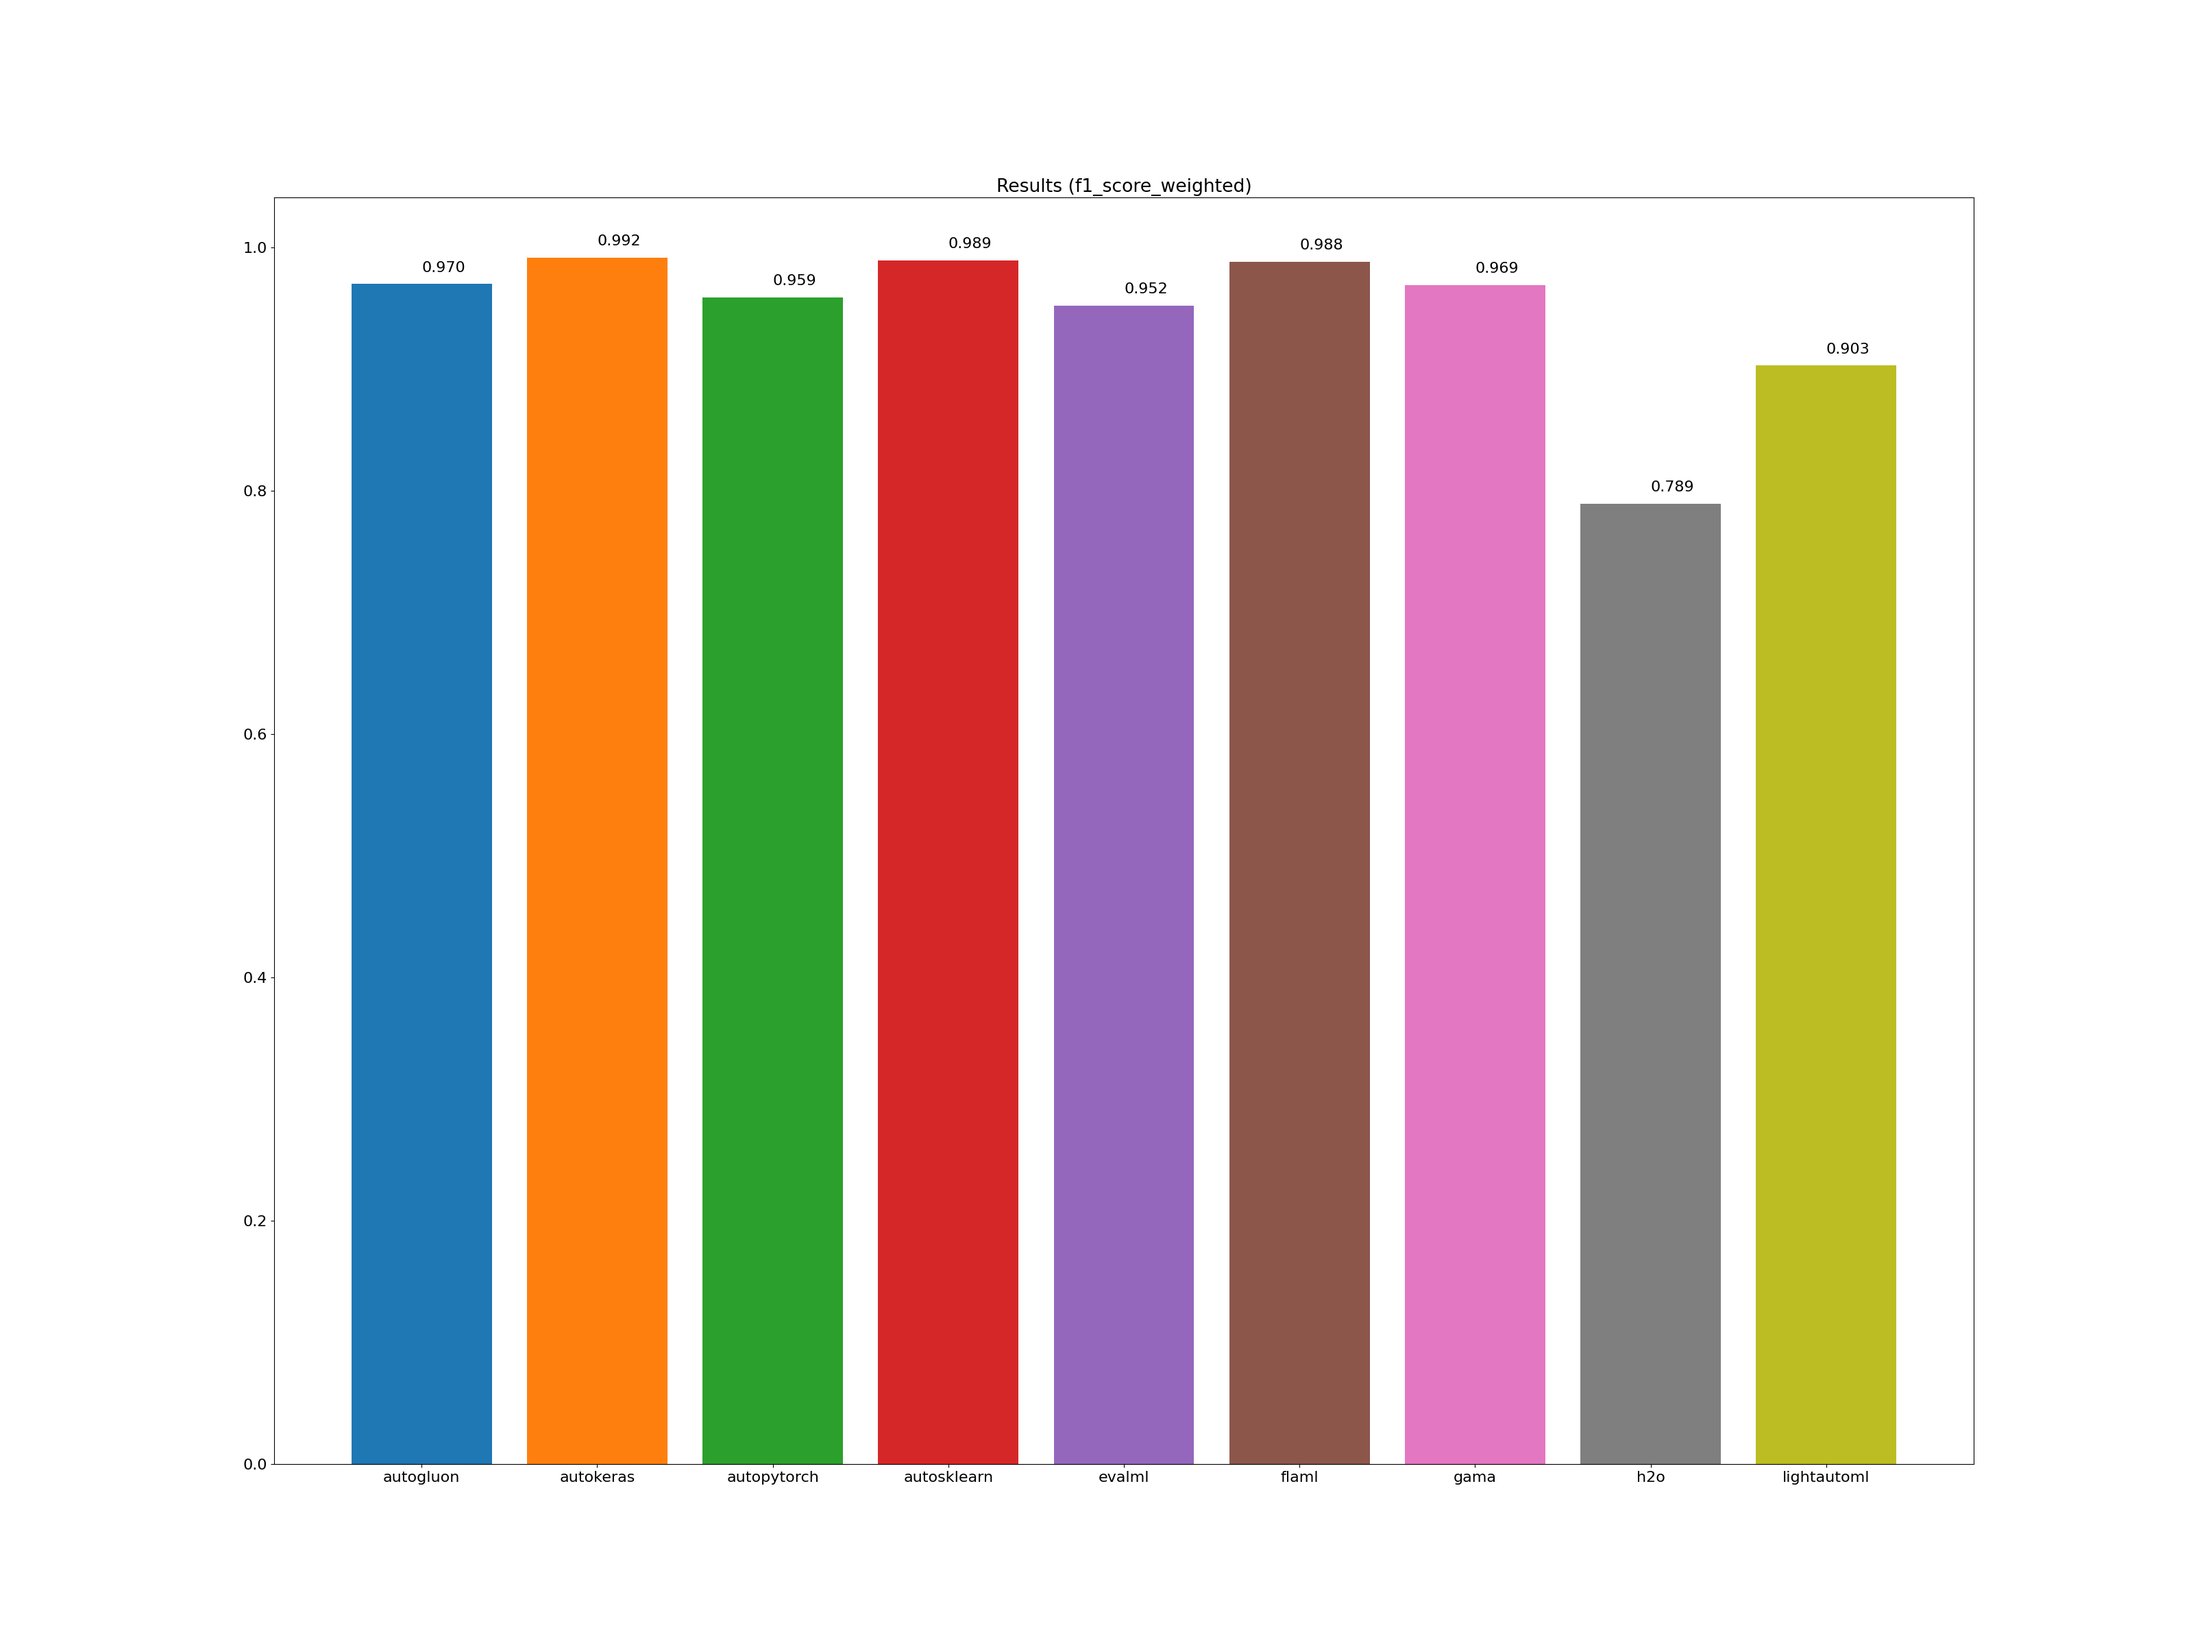
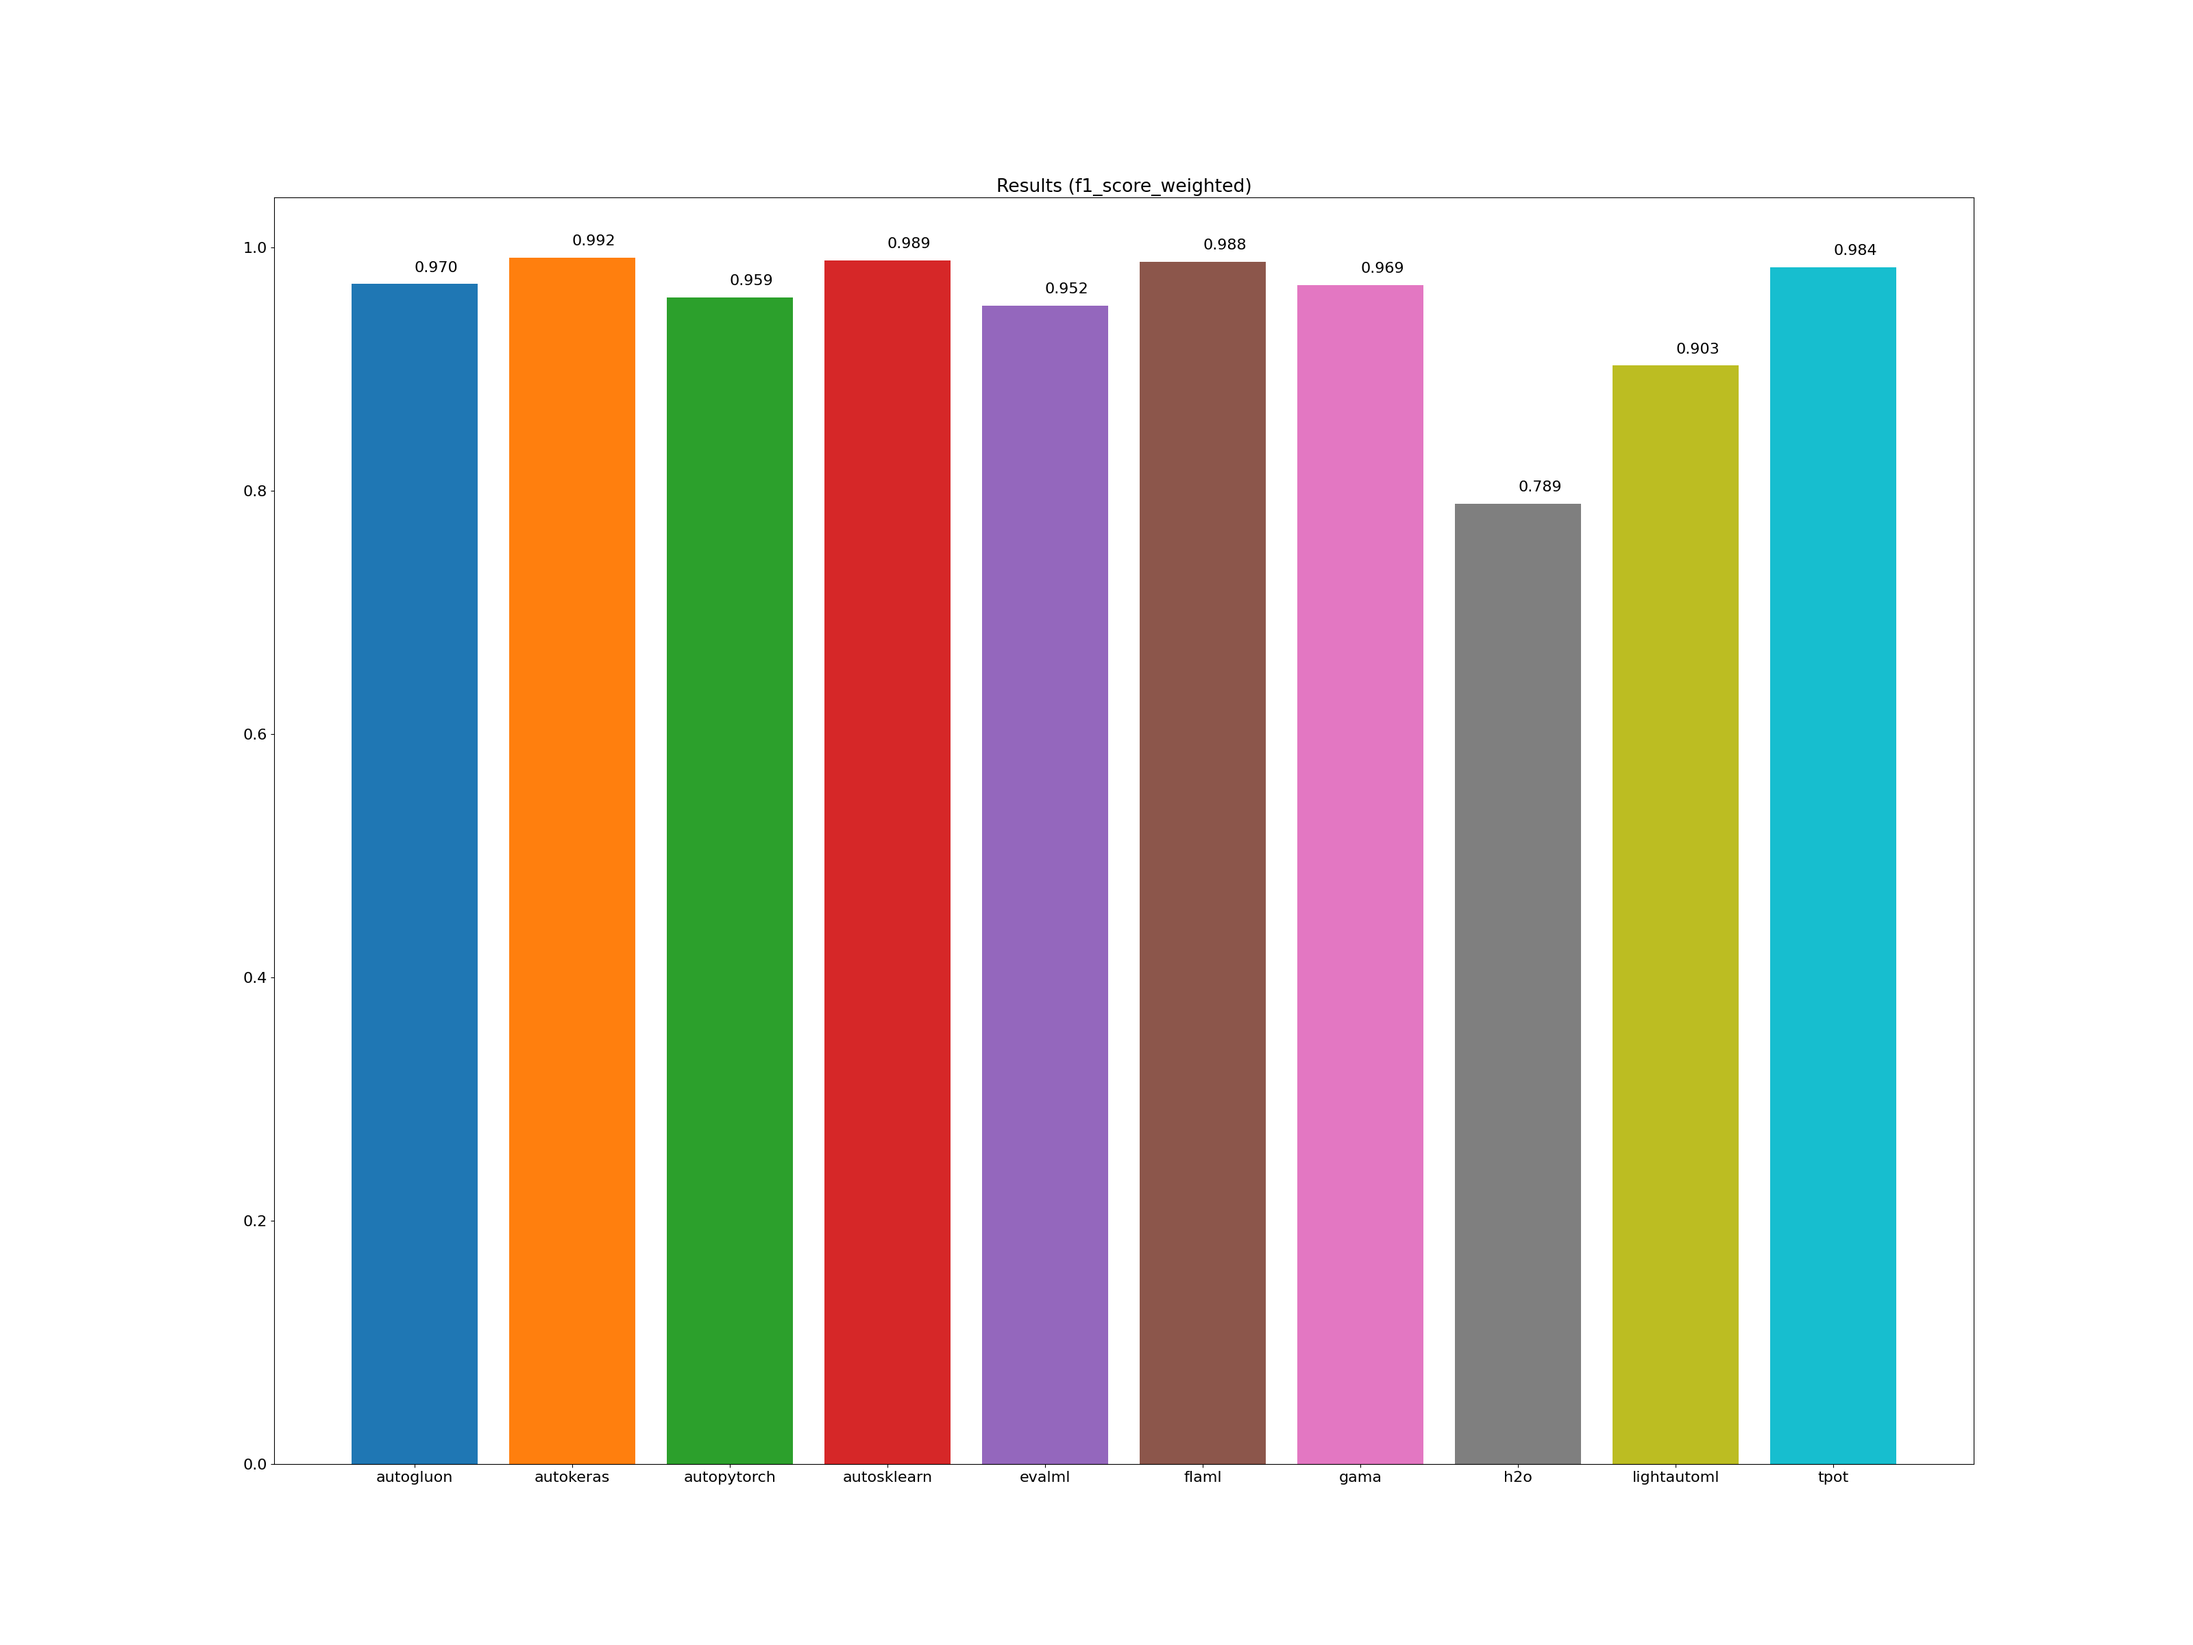
Fix TPOT for 40975

diff --git a/results/multiclass/40975/automl.md b/results/multiclass/40975/automl.md
@@ -1,11 +1,12 @@
-| framework   |   accuracy_score |   average_precision_score |   balanced_accuracy_score |   cohen_kappa_score |   f1_score_macro |   f1_score_micro |   f1_score_weighted |   matthews_corrcoef |   precision_score |   recall_score |   roc_auc_score | training_time   | test_time   |
-|:------------|-----------------:|--------------------------:|--------------------------:|--------------------:|-----------------:|-----------------:|--------------------:|--------------------:|------------------:|---------------:|----------------:|:----------------|:------------|
-| autogluon   |            0.968 |                        -1 |                     0.935 |               0.934 |            0.897 |            0.968 |               0.97  |               0.934 |                -1 |             -1 |              -1 | 00:00:13        | 00:00:00    |
-| autokeras   |            0.991 |                        -1 |                     0.971 |               0.982 |            0.957 |            0.991 |               0.992 |               0.982 |                -1 |             -1 |              -1 | 00:01:16        | 00:00:00    |
-| autopytorch |            0.957 |                        -1 |                     0.931 |               0.909 |            0.881 |            0.957 |               0.959 |               0.911 |                -1 |             -1 |              -1 | 00:10:12        | 00:00:09    |
-| autosklearn |            0.988 |                        -1 |                     0.988 |               0.976 |            0.955 |            0.988 |               0.989 |               0.976 |                -1 |             -1 |              -1 | 00:10:13        | 00:00:01    |
-| evalml      |            0.951 |                        -1 |                     0.911 |               0.897 |            0.863 |            0.951 |               0.952 |               0.899 |                -1 |             -1 |              -1 | 00:10:01        | 00:00:00    |
-| flaml       |            0.988 |                        -1 |                     0.976 |               0.976 |            0.974 |            0.988 |               0.988 |               0.976 |                -1 |             -1 |              -1 | 00:10:00        | 00:00:00    |
-| gama        |            0.968 |                        -1 |                     0.916 |               0.934 |            0.897 |            0.968 |               0.969 |               0.934 |                -1 |             -1 |              -1 | 00:08:59        | 00:00:00    |
-| h2o         |            0.821 |                        -1 |                     0.419 |               0.599 |            0.397 |            0.821 |               0.789 |               0.605 |                -1 |             -1 |              -1 | 00:10:05        | 00:00:00    |
-| lightautoml |            0.896 |                        -1 |                     0.519 |               0.782 |            0.526 |            0.896 |               0.903 |               0.782 |                -1 |             -1 |              -1 | 00:01:06        | 00:00:00    |
+| framework   |   accuracy_score |   average_precision_score |   balanced_accuracy_score |   cohen_kappa_score |   f1_score_macro |   f1_score_micro |   f1_score_weighted |   matthews_corrcoef |   precision_score |   recall_score |   roc_auc_score | training_time   | test_time   |   coverage_error |   label_ranking_average_precision_score |   label_ranking_loss |
+|:------------|-----------------:|--------------------------:|--------------------------:|--------------------:|-----------------:|-----------------:|--------------------:|--------------------:|------------------:|---------------:|----------------:|:----------------|:------------|-----------------:|----------------------------------------:|---------------------:|
+| autogluon   |            0.968 |                        -1 |                     0.935 |               0.934 |            0.897 |            0.968 |               0.97  |               0.934 |                -1 |             -1 |              -1 | 00:00:13        | 00:00:00    |              nan |                                     nan |                  nan |
+| autokeras   |            0.991 |                        -1 |                     0.971 |               0.982 |            0.957 |            0.991 |               0.992 |               0.982 |                -1 |             -1 |              -1 | 00:01:16        | 00:00:00    |              nan |                                     nan |                  nan |
+| autopytorch |            0.957 |                        -1 |                     0.931 |               0.909 |            0.881 |            0.957 |               0.959 |               0.911 |                -1 |             -1 |              -1 | 00:10:12        | 00:00:09    |              nan |                                     nan |                  nan |
+| autosklearn |            0.988 |                        -1 |                     0.988 |               0.976 |            0.955 |            0.988 |               0.989 |               0.976 |                -1 |             -1 |              -1 | 00:10:13        | 00:00:01    |              nan |                                     nan |                  nan |
+| evalml      |            0.951 |                        -1 |                     0.911 |               0.897 |            0.863 |            0.951 |               0.952 |               0.899 |                -1 |             -1 |              -1 | 00:10:01        | 00:00:00    |              nan |                                     nan |                  nan |
+| flaml       |            0.988 |                        -1 |                     0.976 |               0.976 |            0.974 |            0.988 |               0.988 |               0.976 |                -1 |             -1 |              -1 | 00:10:00        | 00:00:00    |              nan |                                     nan |                  nan |
+| gama        |            0.968 |                        -1 |                     0.916 |               0.934 |            0.897 |            0.968 |               0.969 |               0.934 |                -1 |             -1 |              -1 | 00:08:59        | 00:00:00    |              nan |                                     nan |                  nan |
+| h2o         |            0.821 |                        -1 |                     0.419 |               0.599 |            0.397 |            0.821 |               0.789 |               0.605 |                -1 |             -1 |              -1 | 00:10:05        | 00:00:00    |              nan |                                     nan |                  nan |
+| lightautoml |            0.896 |                        -1 |                     0.519 |               0.782 |            0.526 |            0.896 |               0.903 |               0.782 |                -1 |             -1 |              -1 | 00:01:06        | 00:00:00    |              nan |                                     nan |                  nan |
+| tpot        |            0.983 |                        -1 |                     0.947 |               0.964 |            0.923 |            0.983 |               0.984 |               0.964 |                -1 |             -1 |              -1 | 00:10:10        | 00:00:00    |               -1 |                                      -1 |                   -1 |
